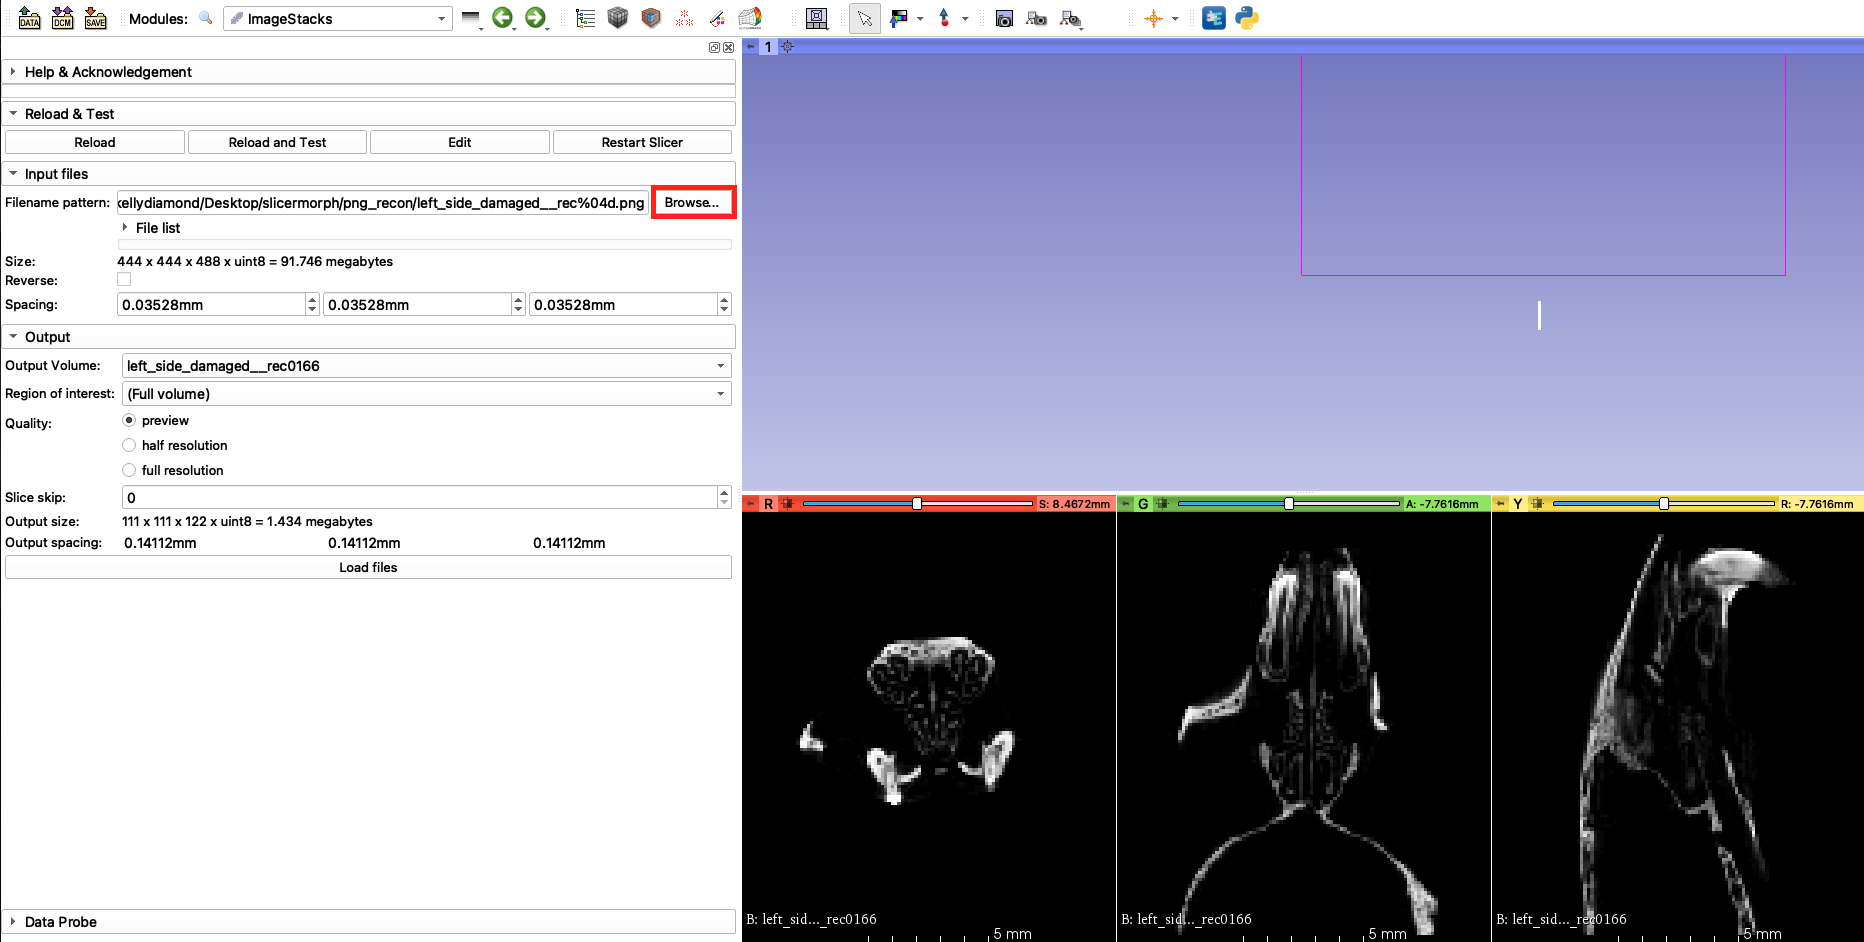
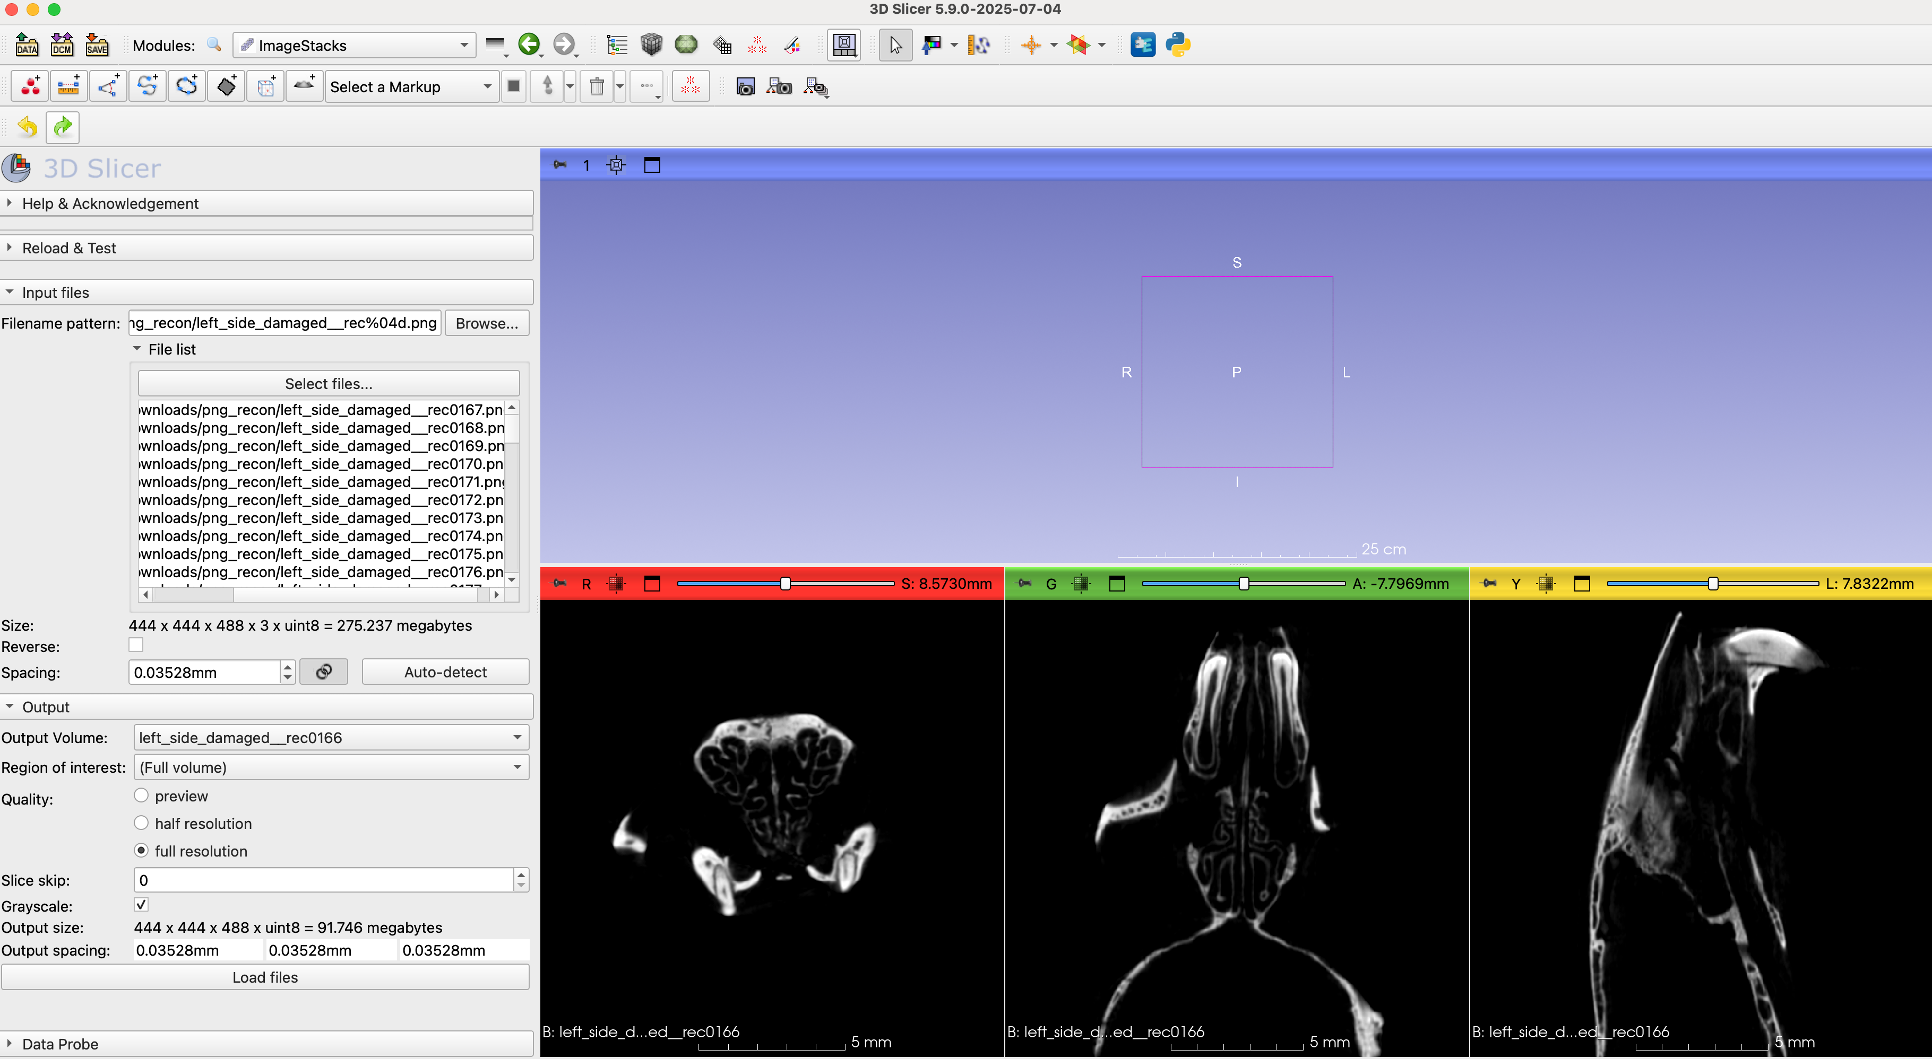
update ImageStacks

diff --git a/ImageStacks/README.md b/ImageStacks/README.md
@@ -1,5 +1,5 @@
 ## ImageStacks
-This is a SlicerMorph specific utility to import non-DICOM image sequences (TIF/PNG/JPG/BMP) into 3D Slicer. It provides additional features such as only loading a subset of the data using ROI, downsampling, skipping slice(s) along the Z plane, and reverse the stack order. You can also specify the voxel spacing for your dataset at the import time. `ImageStacks` always produces a ScalarVolume (single channel), so that volumes can be immediately visualized or can be processed with `Segment Editor`.
+ImageStacks is a SlicerMorph module to import non-DICOM image sequences (TIF/PNG/JPG/BMP) into 3D Slicer. It provides additional features such as only loading a subset of the data using ROI, downsampling, skipping slice(s) along the Z plane, and reversing the stack order. You are expected to provide the voxel spacing for your dataset at the import time. `ImageStacks` always produces a ScalarVolume (single channel volume), so that volumes can be immediately visualized or can be processed with `Segment Editor`.
 
 To use the `ImageStacks` module in SlicerMorph, first go to the `Sample Data` module and download the **Bruker/Skyscan mCT Recon Sample.** If you are not familiar with the `Sample Data` module or how to find where Slicer downloads files, please review the tutorials for [`Sample Data`](https://github.com/SlicerMorph/Tutorials/tree/main/SampleData) and [`SlicerMorph Preferences`](https://github.com/SlicerMorph/Tutorials/tree/main/MorphPrefs). 
 
@@ -7,14 +7,14 @@ Then find the `ImageStacks` under **SlicerMorph->Input and Output** module menu 
 
 1. Click the **Browse...** button and select a *PNG* file in the folder you just unzipped.
 
-<img src="ImageStacks1.png">
+<img src="./ImageStacks1.png">
 
-2. Image spacing in this dataset is provided in the accompanying left_side_damaged__rec.log file as 35.28 micron. Enter this value in millimeters as 0.03528 for all three axes. Millimeters is the default unit in Slicer. 
-3. You leave the **Output Volume** blank, which will use the filename prefix. Or you can choose to create a new volume name. 
+2. Image spacing in this dataset is provided in the accompanying left_side_damaged__rec.log file as 35.28 micron. Enter this value as 0.03528 as the default unit in Slicer is millimeters. Note that you only enter one voxel spacing value. That's because most microCT dataset are isotropic (i.e., they have same resolution in all three axes). If your dataset has **anisotropic** resolution, click the lock button to unlock the enter different values for all three planes. You can also try to click the **auto detect** button for Slicer to try to recover spacing information from the files. Go ahead and try this on dataset. You will see that the program will erroneously report the value as **1.0mm**. That's because 2D formats (JPG/PNG/TIFF/BMP) often does not retain this information correctly. And if you import the data with this value, your dataset will have the incorrect geometry. Therefore, make sure you validate the auto-detected value independently (from logs, or other metadata). Go ahead and re-enter the correct spacing value of 0.03528mm manually. 
+3. Leave the **Output Volume** blank, which will use the filename prefix. Altneratively, you can choose to create a new volume name. 
 4. To preview a low resolution version of your file make sure the **preview** quality option is selected and click **Load Files** and see that all three slices viewers contain a low resolution version of our data.
-5. To visualize what the specimen looks like, go to `Data` module and drag and drop  **left_side_damaged__rec** into the 3D viewer (Note: We will cover `Volume Rendering` module in great detail tomorrow. For the time being, this is all you need). You may need to hit the cross hairs and push pin directions (red boxes) to center your rendered image in the 3D widow.
+5. To visualize what the specimen looks like, go to `Data` module and drag and drop  **left_side_damaged__rec** into the 3D viewer. You may need to hit the cross hairs and push pin directions (red boxes) to center your rendered image in the 3D widow.
 
-<img src="Data_Volume_Rendering.png">
+<img src="./Data_Volume_Rendering.png">
 
 Notice that the resultant rendering show the damage to the zygomatic arch in the **right side** of the specimen. Curiously, the specimen is named **Left side damaged**. 
 
@@ -24,19 +24,28 @@ Indeed you can check what the real specimen looks like by going to the link belo
 
 This is a standard problem of using image stacks to convey volumetric data. There is no convention of what the **top** of the stack versus **bottom** of the stack is. It is all relative and depends on the scanner vendors' convention. To mitigate this issue, `ImageStacks` offers a **Reverse** option, which basically flips the stack ordering and -in this case- corrects this mirroring.
 
-<img src="ImageStacks2.png">
+<img src="./ImageStacks2.png">
 
-This is a common problem across 3D visualization programs, when image sequences are used to present 3D data. Because of this, it is very important to have independent confirmation of import procedure. Look for asymmetrical structures on your specimen and confirm that they appear on the correct side in the 3D rendering. After a successful import (correct specimen size, orientation) you should immediately save your data in a proper 3D volume format that will retain this information (which will be our next topic). 
+This is a common problem across 3D visualization programs, when image sequences are used to present 3D data. Because of this, it is very important to have independent confirmation of import procedure. Look for asymmetrical structures on your specimen and confirm that they appear on the correct side in the 3D rendering. After a successful import (correct volume geometry, and specimen orientation) you should immediately save your data in a proper 3D volume format, like NRRD, that will retain this information each time you load the data. 
 
 
 Once you have reversed your image and you want to visualize the full resolution version of your entire file you can go back to the `ImageStacks` module, change the quality from **preview** to **full resolution**
 
 ### Using ROI with Image Stacks
 
-Let's say you have a large file and you only want to visualize a portion of the total scanned volume at full resolution, such as only segmenting the braincase of the mouse. Before loading in the full resolution volume, we can do that using a region of interest on the preview resolution image we imported in the previous step. First in the `Data` module click the eye ball button to view the **AnnotationROI** assoicated with your reversed image (Mine is called AnnotationROI_1) and use the colored circles so that the ROI excludes the mouse rostrum (nose). Now go to the `ImageStacks` modlue and select the same **AnnotationROI** for the Region of interest and create a new output volume (I've named mine mouseBraincase), change the Quality to **full resolution** and click **Load Files**
+Let's say you have a large file and you only want to visualize a portion of the total scanned volume at full resolution, such as only segmenting the braincase of the mouse. If the file is too large, loading the full resolution volume and then using cropping the volume to the specific region we need will be slow. Instead, we can import a low resolution version of the data (like we already did), and then adjust the ROI on this low-resolution volume and reimport the data with these new constraints. For large (5GB+) datasets this will always be faster than the first option described. To try this:
+
+1. Go to the `volume rendering` module and turn on the `Display ROI` option (alternatively you can use the Markups toolbar to place a new ROI). Then modify the ROI to only contain the region you would like to import (in this case just the snout).  
+
+Now go back to the `ImageStacks` module and:
+
+2. Set a new **Output Volume**. If you don't do that, it will overwrite the one you j
+3. Click the **Region of Interest** button and choose the ROI you have created (in my case it is called VolumeRendering_ROI) from the drop down menu
+4. Adjust the **Quality** to Full Resolution (if not already set)
+ 
 
 
-<img src="ImageStacksROI.png">
+<img src="./ImageStacksROI.png">
 
 Notice that the slice views show only the volume in the region of interest and are now full resolution. If you have an articulated specimen (e.g., a full body scan of a fish), and you want to segment only the skull (or a specific region), this is a trick you can use to reduce the memory consumption. Segmentation may require 6-10X more memory compared to your volume size (if `ImageStacks` reports estimated memory usage is 2GB, then you may need up to 20GB in memory to segment the data in full resolution). 
 
